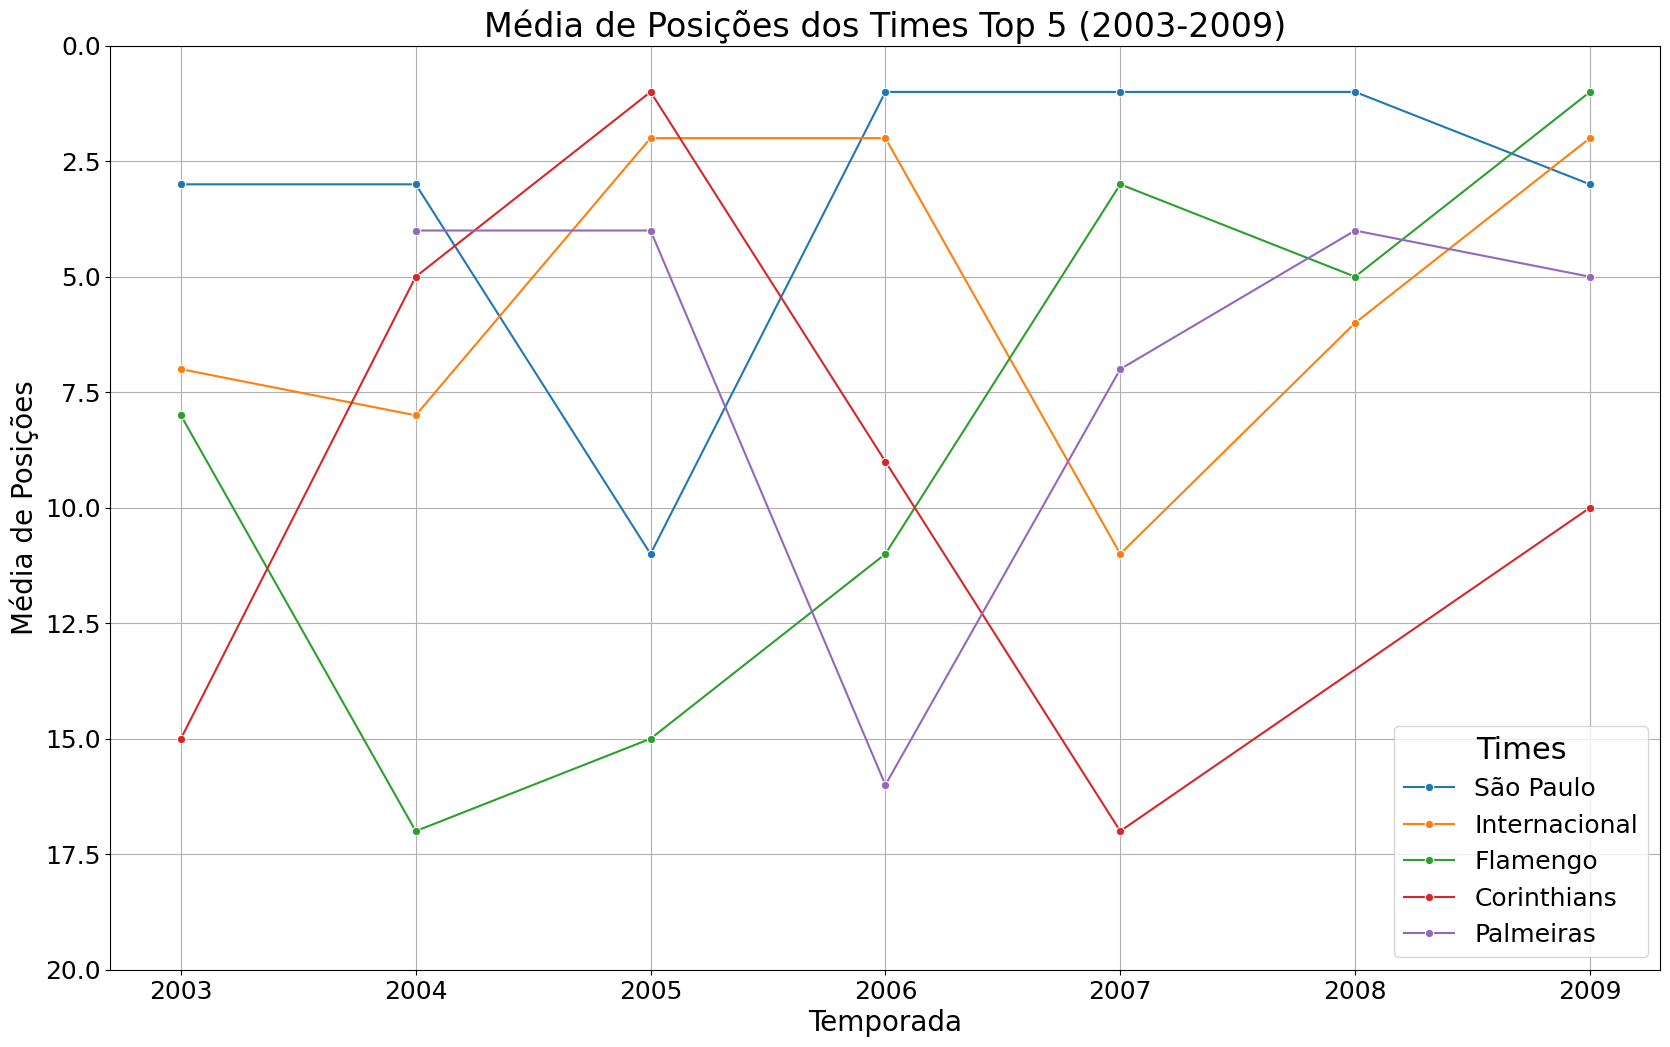
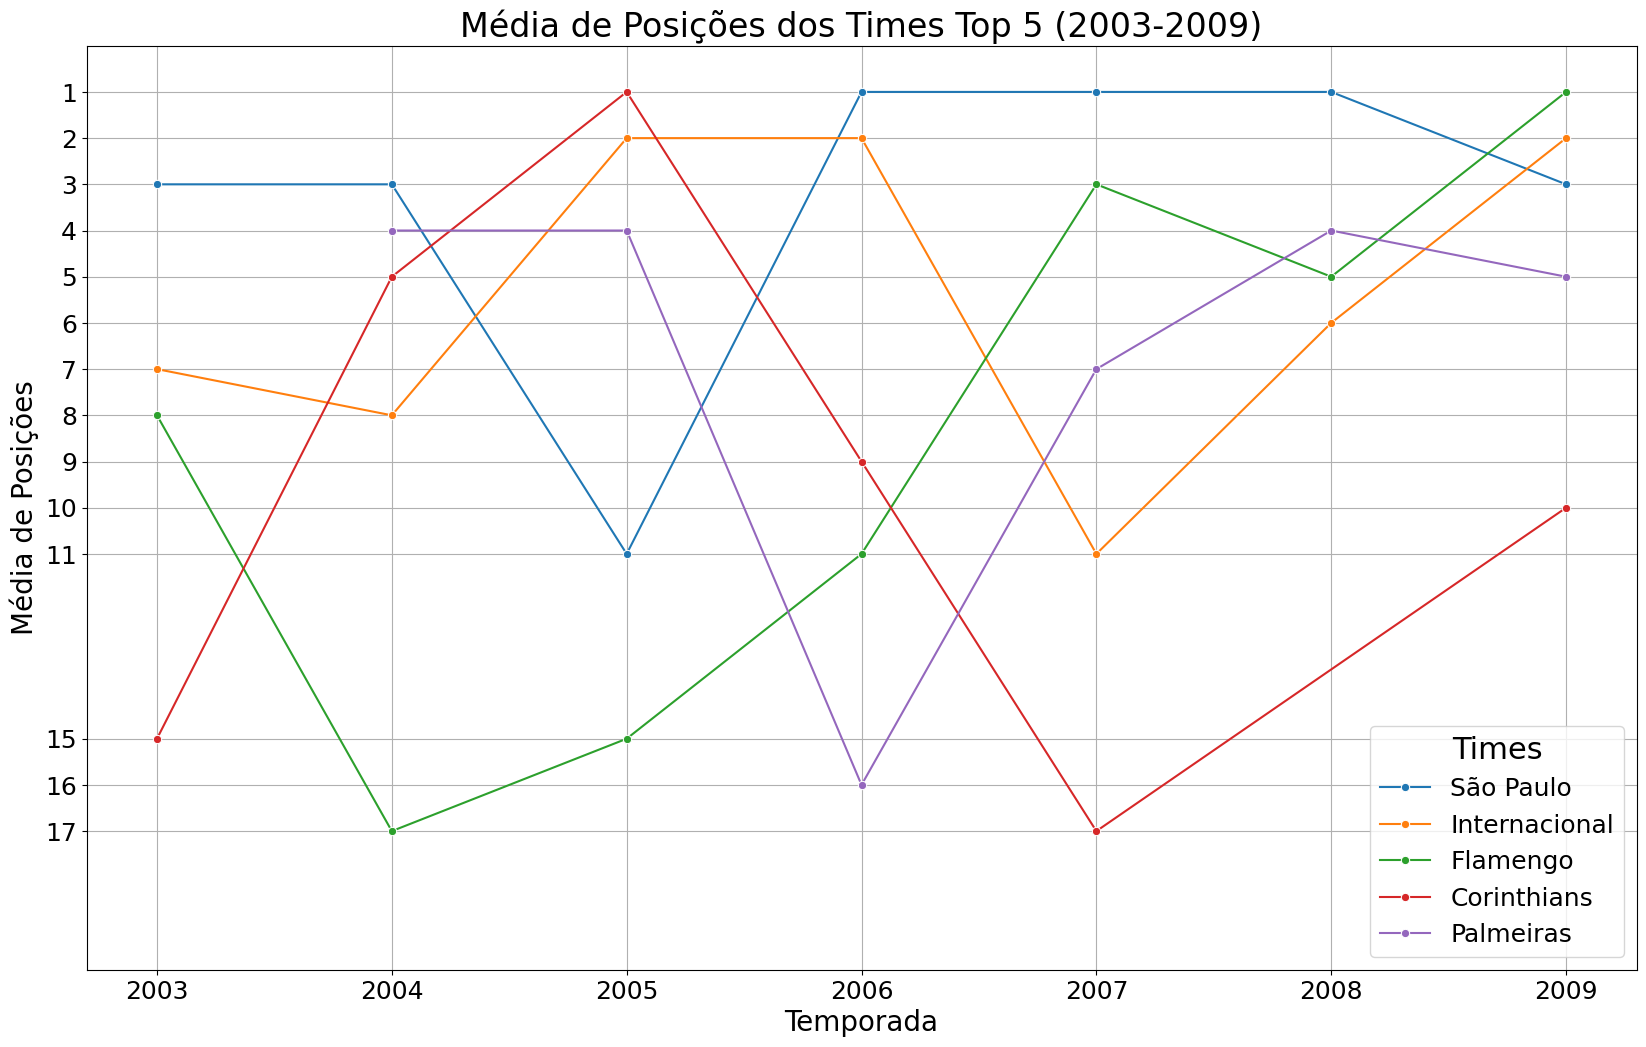
feat: melhor visualização dos gráficos

diff --git a/visualizacao.py b/visualizacao.py
@@ -86,7 +86,8 @@ plt.title("Média de Posições dos Times Top 5 (2003-2009)", fontsize=24)
 plt.xlabel("Temporada", fontsize=20)
 plt.ylabel("Média de Posições", fontsize=20)
 plt.xticks(fontsize=18)
-plt.yticks(fontsize=18)
+y_values = sorted(decada_2000["place"].unique())
+plt.yticks(y_values, fontsize=18)
 plt.legend(title="Times", fontsize=18, title_fontsize=22)
 plt.grid(True)
 plt.ylim(20, 0)
@@ -99,7 +100,8 @@ plt.title("Média de Posições dos Times Top 5 (2010-2019)", fontsize=24)
 plt.xlabel("Temporada", fontsize=20)
 plt.ylabel("Média de Posições", fontsize=20)
 plt.xticks(fontsize=18)
-plt.yticks(fontsize=18)
+y_values = sorted(decada_2010["place"].unique())
+plt.yticks(y_values, fontsize=18)
 plt.legend(title="Times", fontsize=18, title_fontsize=22)
 plt.grid(True)
 plt.ylim(20, 0)
@@ -112,7 +114,8 @@ plt.title("Média de Posições dos Times Top 5 (2020-2024)", fontsize=24)
 plt.xlabel("Temporada", fontsize=20)
 plt.ylabel("Média de Posições", fontsize=20)
 plt.xticks(fontsize=18)
-plt.yticks(fontsize=18)
+y_values = sorted(decada_2020["place"].unique())
+plt.yticks(y_values, fontsize=18)
 plt.legend(title="Times", fontsize=18, title_fontsize=22)
 plt.grid(True)
 plt.ylim(20, 0)
@@ -125,7 +128,8 @@ plt.title("Média de Posições dos Times Top 5 (2002-2024)", fontsize=24)
 plt.xlabel("Temporada", fontsize=20)
 plt.ylabel("Média de Posições", fontsize=20)
 plt.xticks(fontsize=18)
-plt.yticks(fontsize=18)
+y_values = sorted(df_brasileirao_top_5["place"].unique())
+plt.yticks(y_values, fontsize=18)
 plt.legend(title="Times", fontsize=18, title_fontsize=22)
 plt.grid(True)
 plt.ylim(20, 0)
